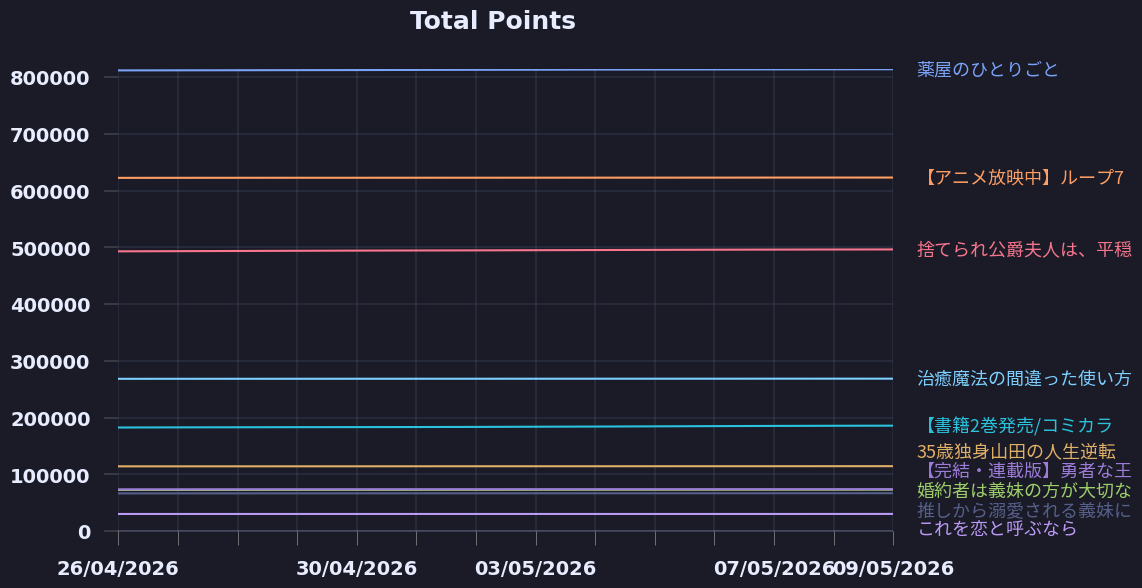
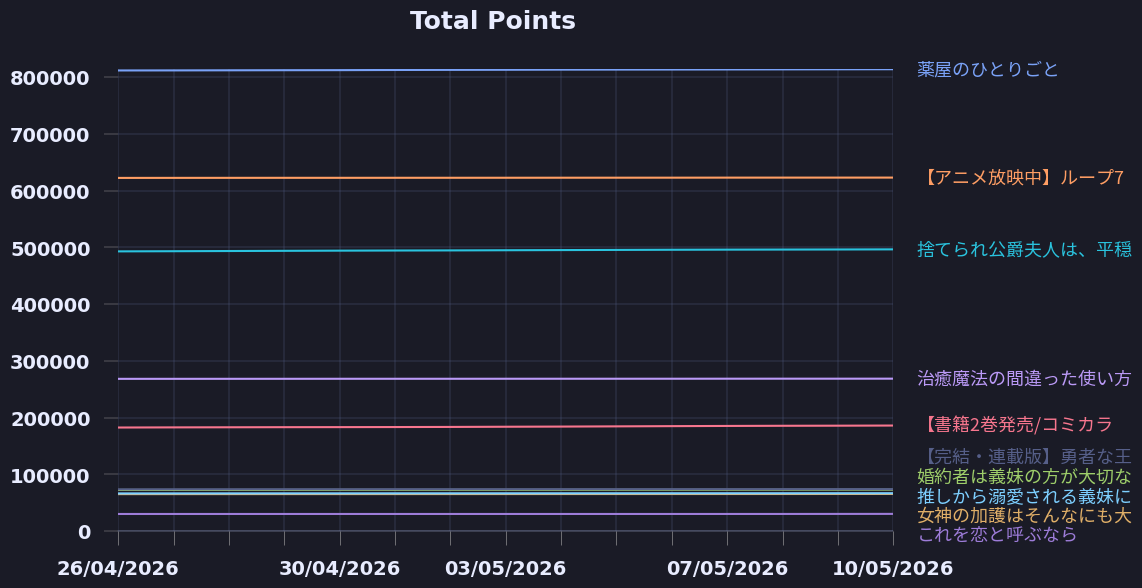
update plots

diff --git a/README.md b/README.md
@@ -8,13 +8,13 @@
 
 ## Trending
 
-1. [捨てられ公爵夫人は、平穏な生活をお望みのようです](https://ncode.syosetu.com/n4395il/)
-2. [【書籍2巻発売/コミカライズ連載中】悪役令嬢の矜持〜婚約者を奪い取って義姉を追い出した私は、どうやら今から破滅するようです。〜](https://ncode.syosetu.com/n0753hr/)
+1. [【書籍2巻発売/コミカライズ連載中】悪役令嬢の矜持〜婚約者を奪い取って義姉を追い出した私は、どうやら今から破滅するようです。〜](https://ncode.syosetu.com/n0753hr/)
+2. [捨てられ公爵夫人は、平穏な生活をお望みのようです](https://ncode.syosetu.com/n4395il/)
 3. [薬屋のひとりごと](https://ncode.syosetu.com/n9636x/)
 4. [【アニメ放映中】ループ7回目の悪役令嬢は、元敵国で自由気ままな花嫁生活を満喫する](https://ncode.syosetu.com/n1784ga/)
 5. [婚約者は義妹の方が大切なので、ふたりが結婚できるようにしてあげようと思います](https://ncode.syosetu.com/n8269hq/)
-6. [【完結・連載版】勇者な王太子殿下が魔王に呪われましたが私が即座に口付けします　〜報酬に3食とおやつと昼寝付き生活ありだと思う〜](https://ncode.syosetu.com/n2961in/)
-7. [これを恋と呼ぶなら](https://ncode.syosetu.com/n4785io/)
-8. [推しから溺愛される義妹に転生しました](https://ncode.syosetu.com/n5287io/)
-9. [35歳独身山田の人生逆転魔法　～現代社会に疲れた俺は異世界でスローライフを楽しむために現代で悪魔と戦って金儲けをしながら異世界村を発展させることにしました～](https://ncode.syosetu.com/n3115io/)
-10. [治癒魔法の間違った使い方～戦場を駆ける回復要員～](https://ncode.syosetu.com/n2468ca/)
+6. [これを恋と呼ぶなら](https://ncode.syosetu.com/n4785io/)
+7. [治癒魔法の間違った使い方～戦場を駆ける回復要員～](https://ncode.syosetu.com/n2468ca/)
+8. [【完結・連載版】勇者な王太子殿下が魔王に呪われましたが私が即座に口付けします　〜報酬に3食とおやつと昼寝付き生活ありだと思う〜](https://ncode.syosetu.com/n2961in/)
+9. [女神の加護はそんなにも大事ですか？](https://ncode.syosetu.com/n3888io/)
+10. [推しから溺愛される義妹に転生しました](https://ncode.syosetu.com/n5287io/)